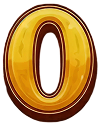
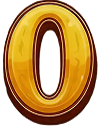
bitmap multiplier

diff --git a/src/slot/SlotSymbol.ts b/src/slot/SlotSymbol.ts
@@ -46,8 +46,11 @@ export class SlotSymbol extends Container {
     /** Test multiplier: 0 = none, 2/3/5 = show sprite */
     public multiplier: number = 0;
 
-    /** Multiplier sprite */
-    private multiplierSprite: Sprite | null = null;
+    /**
+     * Multiplier render container (bitmap-like digits).
+     * NOTE: kept the name `multiplierSprite` so existing code flow stays intact.
+     */
+    private multiplierSprite: Container | null = null;
 
     /** Tween reference for animation */
     private multiplierTween?: gsap.core.Tween | gsap.core.Timeline;
@@ -174,7 +177,7 @@ export class SlotSymbol extends Container {
         // RESET multiplier state before assigning the new one
         if (this.multiplierSprite) {
             this.removeChild(this.multiplierSprite);
-            this.multiplierSprite.destroy();
+            this.multiplierSprite.destroy({ children: true });
             this.multiplierSprite = null;
         }
         if (this.multiplierTween) {
@@ -558,7 +561,7 @@ export class SlotSymbol extends Container {
         }
         if (this.multiplierSprite) {
             this.removeChild(this.multiplierSprite);
-            this.multiplierSprite.destroy();
+            this.multiplierSprite.destroy({ children: true });
             this.multiplierSprite = null;
         }
 
@@ -585,46 +588,117 @@ export class SlotSymbol extends Container {
         super.destroy();
     }
 
-    /** Create or update the multiplier sprite */
+    // =========================================================
+    // ✅ NEW: Dynamic multiplier bitmap rendering
+    // =========================================================
+
+    /**
+     * Map a single character to your texture key.
+     * ✅ Change these return values to match your actual asset names.
+     */
+    private getMultiplierCharTextureKey(ch: string): string | null {
+        if (ch >= '0' && ch <= '9') return ch; // "0".."9"
+        if (ch === 'X' || ch === 'x') return 'X';
+        return null;
+    }
+
+    /**
+     * Build a bitmap-like multiplier container such as "2X", "10X", "250X".
+     * The whole container is anchored/centered so your existing effects and positioning
+     * behave like a single sprite.
+     */
+    private createMultiplierBitmap(multiplier: number): Container | null {
+        if (!multiplier || multiplier <= 0) return null;
+
+        const text = `${multiplier}X`;
+        const root = new Container();
+
+        const chars: Sprite[] = [];
+
+        // ✅ TUNE THESE
+        const digitGap = 10; // tighter between digits
+        const xGap = -32; // tighter before 'X'
+
+        let xCursor = 0;
+
+        // Helper: use trimmed/original width if available (avoids transparent padding issues)
+        const getAdvanceWidth = (spr: Sprite) => {
+            const tex = spr.texture;
+            // Prefer trimmed width (most accurate when assets are trimmed/packed)
+            const trimmedW = tex?.trim?.width;
+            if (typeof trimmedW === 'number' && trimmedW > 0) return trimmedW;
+
+            // Fallback to original frame width if available
+            const origW = (tex as any)?.orig?.width;
+            if (typeof origW === 'number' && origW > 0) return origW;
+
+            // Final fallback
+            return spr.width;
+        };
+
+        for (const ch of text) {
+            const key = this.getMultiplierCharTextureKey(ch);
+            if (!key) {
+                root.destroy({ children: true });
+                return null;
+            }
+
+            const spr = Sprite.from(key);
+            spr.anchor.set(0, 0.5);
+            spr.x = xCursor;
+            spr.y = 0;
+
+            root.addChild(spr);
+            chars.push(spr);
+
+            // ✅ Choose gap per character type
+            const gap = ch === 'X' || ch === 'x' ? xGap : digitGap;
+
+            // ✅ Use "advance width" that ignores transparent padding where possible
+            xCursor += getAdvanceWidth(spr) + gap;
+        }
+
+        // Center the whole group
+        const lastGap = text[text.length - 1] === 'X' || text[text.length - 1] === 'x' ? xGap : digitGap;
+        const totalW = xCursor - lastGap;
+        for (const c of chars) {
+            c.x -= totalW * 0.5;
+        }
+
+        root.y = 0;
+        return root;
+    }
+
+    /** Create or update the multiplier sprite (NOW dynamic bitmap digits) */
     private updateMultiplierSprite() {
         // Remove old sprite if needed
         if (this.multiplierSprite) {
             this.removeChild(this.multiplierSprite);
-            this.multiplierSprite.destroy();
+            this.multiplierSprite.destroy({ children: true });
             this.multiplierSprite = null;
         }
 
         // If multiplier = 0 → show nothing
         if (this.multiplier === 0) return;
 
-        // Pick correct asset based on multiplier value
-        const assetName =
-            this.multiplier === 2
-                ? '2XMultiplier'
-                : this.multiplier === 3
-                  ? '3XMultiplier'
-                  : this.multiplier === 5
-                    ? '5XMultiplier'
-                    : this.multiplier === 10
-                      ? '10XMultiplier'
-                      : null;
+        // Build bitmap
+        const bitmap = this.createMultiplierBitmap(this.multiplier);
+        if (!bitmap) return;
 
-        if (!assetName) return;
+        this.multiplierSprite = bitmap;
 
-        // Create sprite
-        this.multiplierSprite = Sprite.from(assetName);
-        this.multiplierSprite.anchor.set(0.5);
-        this.multiplierSprite.scale.set(0.75);
+        // Match your previous "icon feel"
+        this.multiplierSprite.scale.set(0.4);
 
         // Position BELOW the symbol (but still top layer visually)
-        this.multiplierSprite.y = 40; // adjust to your icon height
+        this.multiplierSprite.y = 40;
         this.multiplierSprite.x = 0;
 
         // Add to top layer
         this.addChild(this.multiplierSprite);
 
         // Floating animation
-        //this.applyMultiplierAnimation();
+        // this.applyMultiplierAnimation();
     }
 
     /**
@@ -662,7 +736,7 @@ export class SlotSymbol extends Container {
         const landShakeRepeats = 6;
 
         const isTargetAlive = () => {
-            return !!this.multiplierSprite && this.multiplierSprite === target && !target.destroyed;
+            return !!this.multiplierSprite && this.multiplierSprite === target && !(target as any).destroyed;
         };
 
         const startAirShake = () => {

diff --git a/src/slot/SlotBoard.ts b/src/slot/SlotBoard.ts
@@ -1,4 +1,4 @@
-import { Container, Graphics, Ticker, triangulateWithHoles } from 'pixi.js';
+import { Container, Graphics, Ticker } from 'pixi.js';
 import gsap from 'gsap';
 import { Slot } from './Slot';
 import { SlotConfig, slotGetBlocks } from './SlotConfig';
@@ -7,7 +7,6 @@ import { gridRandomTypeReset, initGrid, forEachCell, SCATTERBONUS } from './Slot
 import { userSettings, SpinModeEnum, features } from '../utils/userSettings';
 import { config } from './SlotSettings';
 import { sfx } from '../utils/audio';
-import { SlotFreeSpinProcess } from './SlotFreeSpinProcess';
 
 interface ReelColumn {
     container: Container;
@@ -1474,11 +1473,10 @@ export class SlotBoard {
         }
 
         if (this.winSound) {
-            sfx.play('common/sfx-symbol-win.wav')
+            sfx.play('common/sfx-symbol-win.wav');
         } else {
             this.winSound = true;
-        };
-
+        }
 
         this.startReplayLoop(() => {
             const list: SlotSymbol[] = [];

diff --git a/src/screens/GameScreen.ts b/src/screens/GameScreen.ts
@@ -1,7 +1,7 @@
 import { Container, Ticker } from 'pixi.js';
 import { Slot } from '../slot/Slot';
 import { navigation } from '../utils/navigation';
-import { bgm, sfx } from '../utils/audio';
+import { bgm } from '../utils/audio';
 import { waitFor } from '../utils/asyncUtils';
 import { slotGetConfig } from '../slot/Match3Config';
 import { GameLogo } from '../ui/GameLogo';

diff --git a/src/slot/SlotFreeSpinProcess.ts b/src/slot/SlotFreeSpinProcess.ts
@@ -439,7 +439,6 @@ export class SlotFreeSpinProcess extends SlotProcess {
             this.reelsTraversed,
             this.multiplierTraversed,
             this.winningPositions!,
-
         );
         this.match3.board.winSound = true;
 
